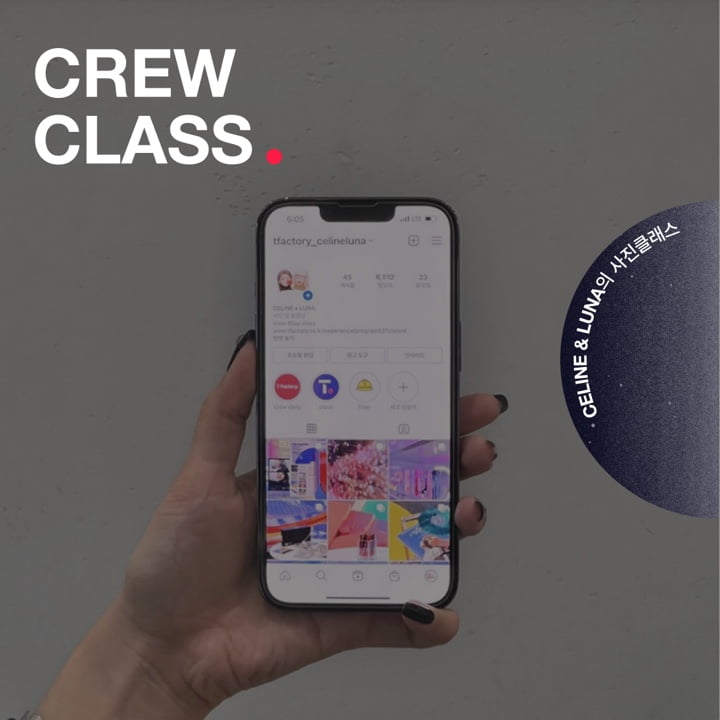
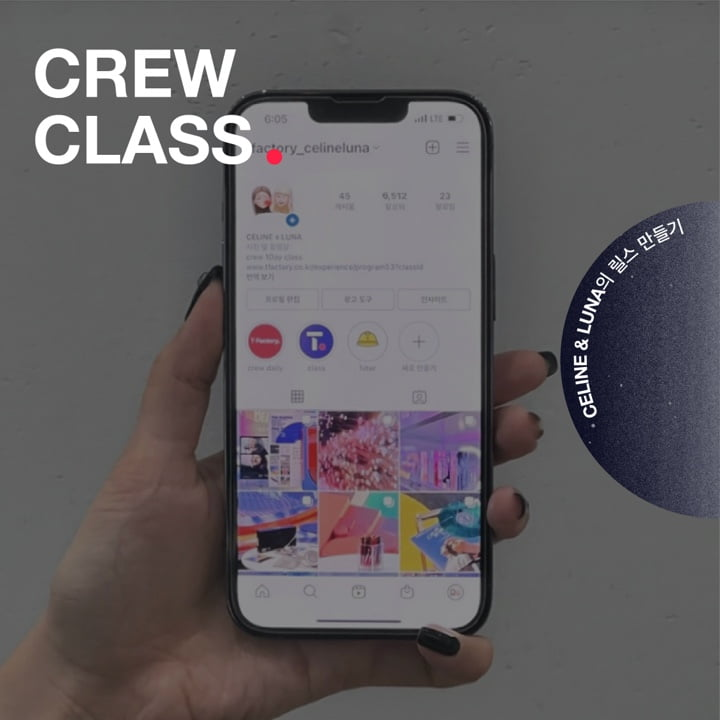
program53 이미지 수정

diff --git a/src/components/product/program/Program53.vue b/src/components/product/program/Program53.vue
@@ -2,7 +2,7 @@
   <div class="contents bottom-sticky" ref="contents">
     <!-- slide -->
     <div class="slider-prd">
-      <img src="../../../assets/images/program/class53-slide1.jpg" alt="">
+      <img src="../../../assets/images/program/class53-slide1.jpg" alt="셀린&루나와 함께하는 릴스 만들기 원데이 클래스">
     </div>
     <!-- //slide -->
     <!-- details -->
@@ -10,7 +10,7 @@
       <div class="details-header">
         <kakao-share
           title="[1DAY 릴스 제작] 요즘 유행하는 릴스의 모든 것!"
-          description="셀린&루나와 함께하는 입문자용 사진 촬영/편집 원데이 클래스"
+          description="셀린&루나와 함께하는 릴스 만들기 원데이 클래스"
         ></kakao-share>
 
         <em class="flag-solid7">MEDIA CLASS</em>
